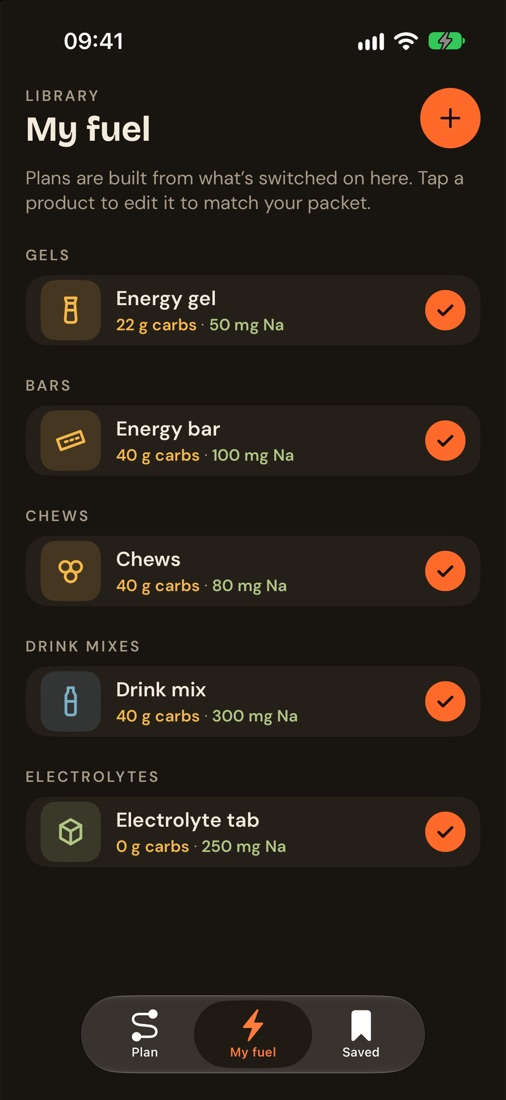
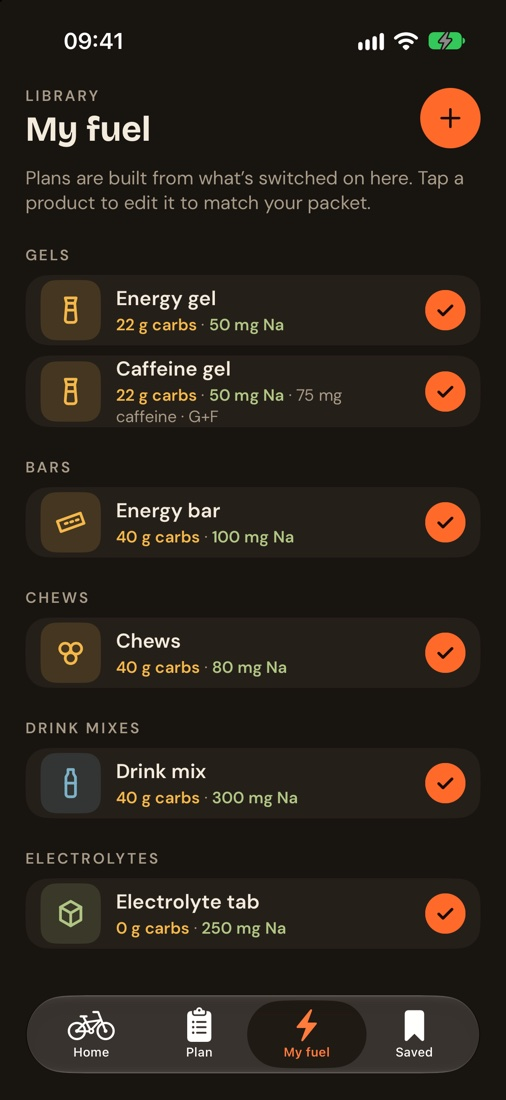
Website: refreshed timeline, in-ride and fuel screenshots

diff --git a/index.html b/index.html
@@ -123,7 +123,7 @@
             <li>A plan check: every total within 5% of target</li>
           </ul>
         </div>
-        <div class="shot"><div class="glow" style="background:var(--fluid)"></div><div class="phone"><img src="img/timeline.jpg" alt="Timeline with timed food and a climb" loading="lazy"></div></div>
+        <div class="shot"><div class="glow" style="background:var(--fluid)"></div><div class="phone"><img src="img/timeline.jpg" alt="Timeline with the plan check, pack list and timed food and drink" loading="lazy"></div></div>
       </div>
 
       <div class="feature flip reveal">
@@ -138,7 +138,7 @@
             <li>Eaten so far vs due by now, at a glance</li>
           </ul>
         </div>
-        <div class="shot"><div class="glow" style="background:var(--accent)"></div><div class="phone"><img src="img/inride.jpg" alt="In-ride countdown with Done and Skip" loading="lazy"></div></div>
+        <div class="shot"><div class="glow" style="background:var(--accent)"></div><div class="phone"><img src="img/inride.jpg" alt="In-ride countdown, eaten against due, and big Done and Skip buttons" loading="lazy"></div></div>
       </div>
 
       <div class="feature reveal">
